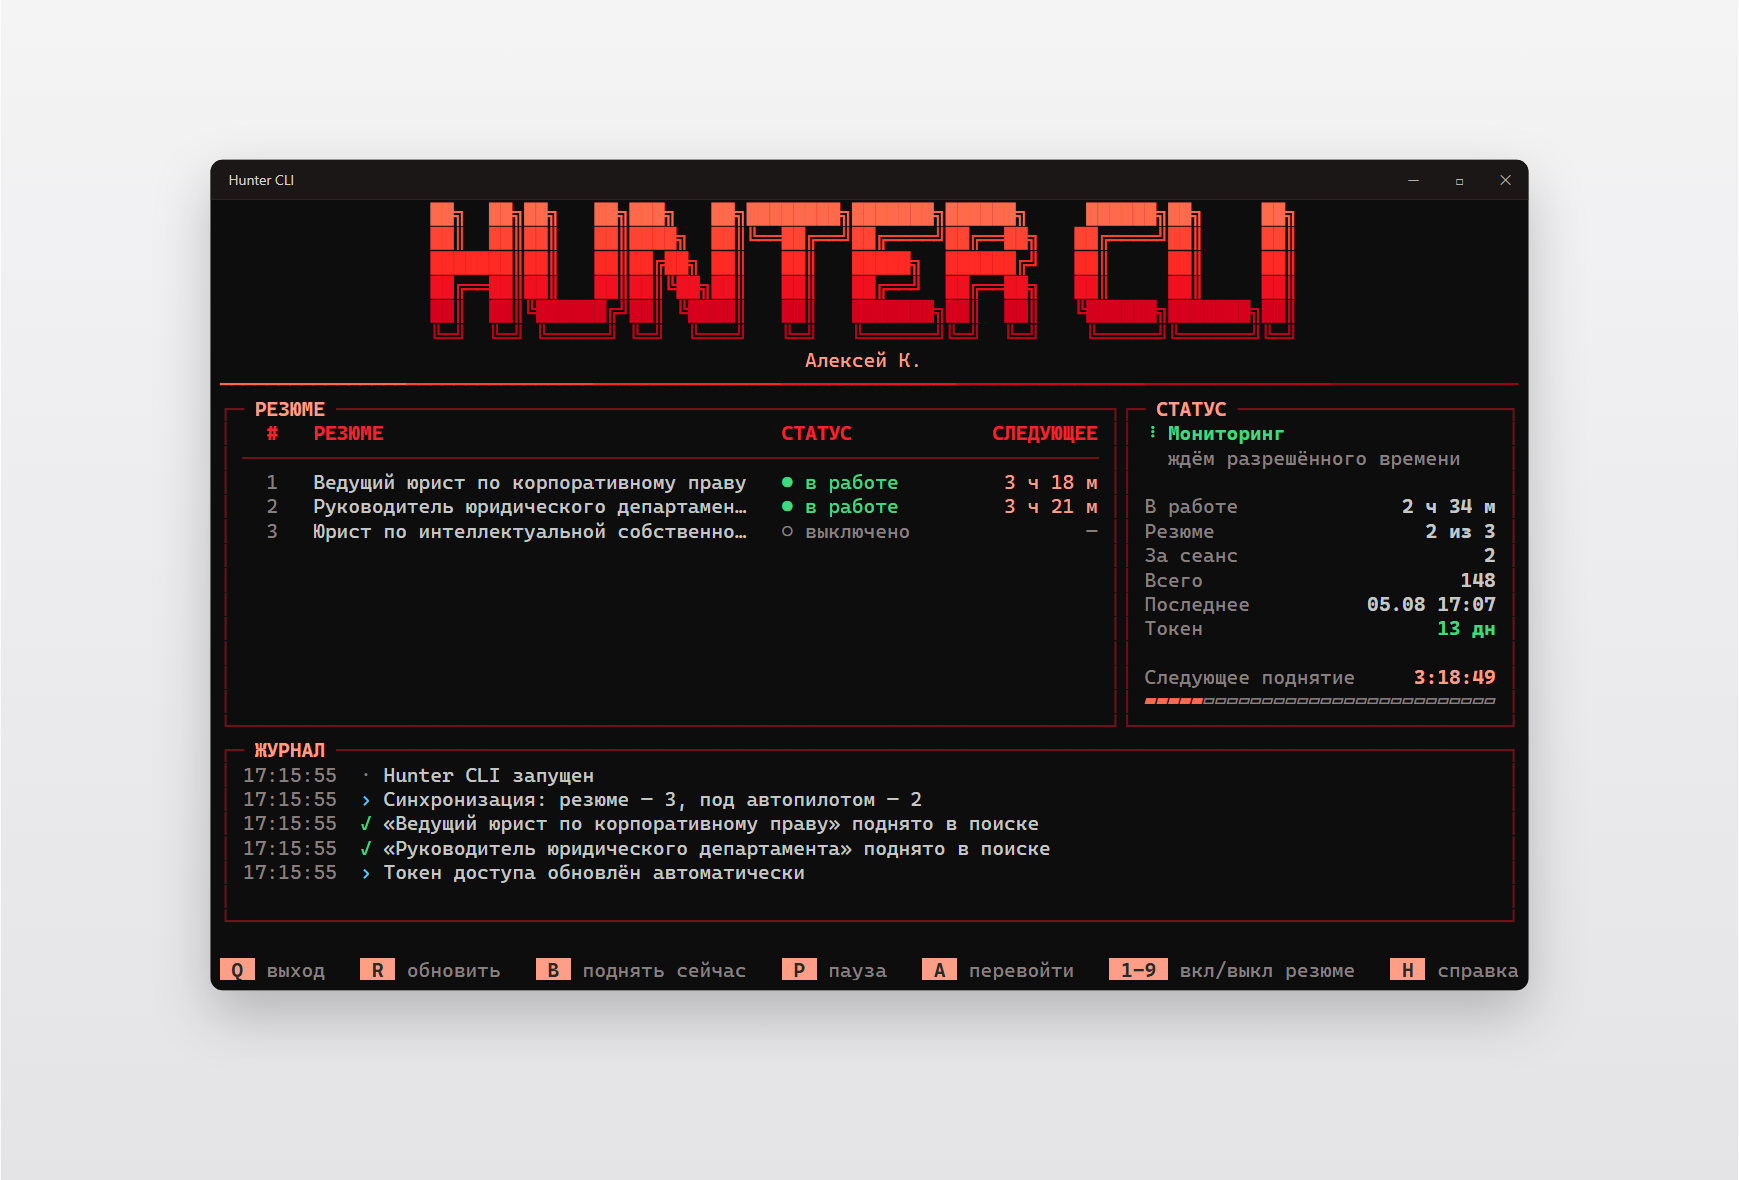
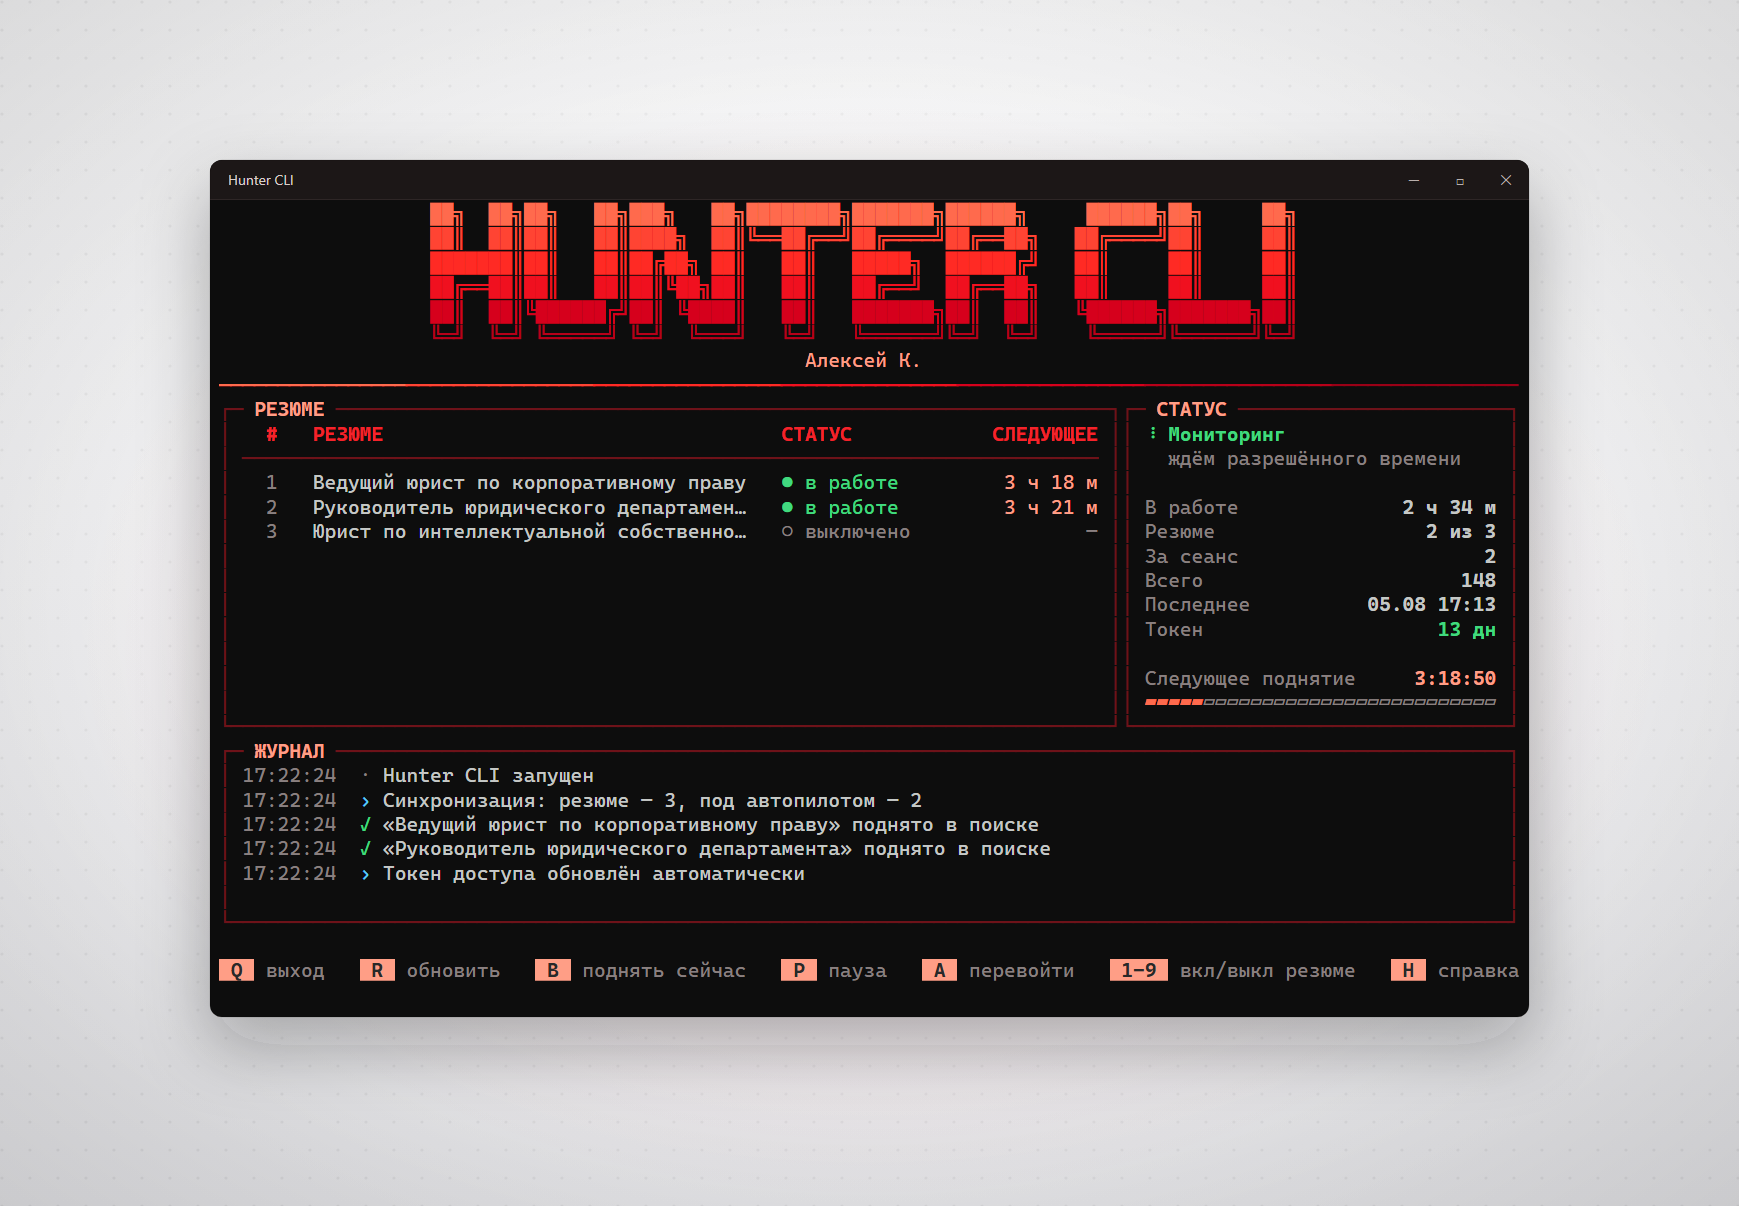
docs: запас снизу у окна и фактура фона на скриншоте
Rich оставляет под содержимым всего 8 px против 40 px сверху под заголовок,
поэтому строка горячих клавиш упиралась в нижний край окна. Добавлен запас.

Фон перестал быть плоской заливкой: точечная сетка, мягкое свечение под
окном, чуть заметный красный отсвет в тон приложению и виньетка по краям.
Всё на низкой прозрачности — фон остаётся серым и не спорит с окном.

Размер холста считается теперь в одном месте: растеризация шла по своей
формуле и обрезала бы добавленные снизу пиксели.

diff --git a/tools/make_preview.py b/tools/make_preview.py
@@ -56,6 +56,10 @@ COLUMNS, ROWS = 112, 32
 MARGIN_X, MARGIN_TOP, MARGIN_BOTTOM = 210, 160, 190
 CORNER = 12
 
+#: Запас снизу. Rich оставляет под содержимым всего 8 px (сверху — 40 px под
+#: заголовок), из-за чего строка горячих клавиш прижималась к краю окна.
+BOTTOM_PAD = 26
+
 OUTPUT_PNG = os.path.join(ROOT, "docs", "preview.png")
 OUTPUT_SVG = os.path.join(ROOT, "docs", "preview.svg")
 
@@ -167,11 +171,19 @@ def render_terminal() -> tuple[str, float, float]:
     return svg, float(box.group(1)), float(box.group(2))
 
 
+def canvas_size(inner_w: float, inner_h: float) -> tuple[int, int]:
+    """Размер картинки. Считается здесь и только здесь: если растеризовать
+    по другой формуле, край изображения окажется обрезанным."""
+    return (
+        int(inner_w + MARGIN_X * 2),
+        int(inner_h + BOTTOM_PAD + MARGIN_TOP + MARGIN_BOTTOM),
+    )
+
+
 def compose(terminal: str, inner_w: float, inner_h: float) -> str:
     """Обернуть терминал в окно и положить на фон."""
-    win_w, win_h = inner_w, inner_h
-    canvas_w = win_w + MARGIN_X * 2
-    canvas_h = win_h + MARGIN_TOP + MARGIN_BOTTOM
+    win_w, win_h = inner_w, inner_h + BOTTOM_PAD
+    canvas_w, canvas_h = canvas_size(inner_w, inner_h)
     win_x, win_y = MARGIN_X, MARGIN_TOP
 
     # Заголовок окна занимает верхнюю полосу: Rich уже оставил под неё отступ
@@ -185,10 +197,12 @@ def compose(terminal: str, inner_w: float, inner_h: float) -> str:
             f'font-family="Segoe UI, Arial" font-size="14" fill="#b9b0ad">{glyph}</text>'
         )
 
+    # Терминал вставляем в его собственном размере: если растянуть его на всю
+    # высоту окна вместе с запасом снизу, текст поедет по вертикали.
     terminal_body = terminal.replace(
         '<svg class="rich-terminal"',
         f'<svg class="rich-terminal" x="{win_x}" y="{win_y}" '
-        f'width="{win_w}" height="{win_h}"',
+        f'width="{inner_w}" height="{inner_h}"',
         1,
     )
 
@@ -196,12 +210,31 @@ def compose(terminal: str, inner_w: float, inner_h: float) -> str:
 height="{canvas_h:.0f}" viewBox="0 0 {canvas_w:.0f} {canvas_h:.0f}">
   <defs>
     <linearGradient id="bg" x1="0%" y1="0%" x2="0%" y2="100%">
-      <stop offset="0%" stop-color="#f4f4f5"/>
-      <stop offset="100%" stop-color="#e4e4e7"/>
+      <stop offset="0%" stop-color="#f5f5f6"/>
+      <stop offset="100%" stop-color="#e2e2e5"/>
     </linearGradient>
-    <filter id="shadow" x="-20%" y="-20%" width="140%" height="150%">
-      <feDropShadow dx="0" dy="24" stdDeviation="28" flood-color="#000000"
-                    flood-opacity="0.22"/>
+    <!-- Мягкое свечение под окном: фон перестаёт быть плоским, но остаётся
+         серым. Красный подмешан почти незаметно — только чтобы отозваться
+         на цвет самого приложения. -->
+    <radialGradient id="halo" cx="50%" cy="46%" r="62%">
+      <stop offset="0%" stop-color="#ffffff" stop-opacity="0.95"/>
+      <stop offset="55%" stop-color="#ffffff" stop-opacity="0.30"/>
+      <stop offset="100%" stop-color="#ffffff" stop-opacity="0"/>
+    </radialGradient>
+    <radialGradient id="ember" cx="50%" cy="54%" r="46%">
+      <stop offset="0%" stop-color="#d6001c" stop-opacity="0.09"/>
+      <stop offset="100%" stop-color="#d6001c" stop-opacity="0"/>
+    </radialGradient>
+    <radialGradient id="vignette" cx="50%" cy="50%" r="72%">
+      <stop offset="52%" stop-color="#000000" stop-opacity="0"/>
+      <stop offset="100%" stop-color="#000000" stop-opacity="0.11"/>
+    </radialGradient>
+    <pattern id="dots" width="28" height="28" patternUnits="userSpaceOnUse">
+      <circle cx="2" cy="2" r="1.6" fill="#3a3a40" opacity="0.07"/>
+    </pattern>
+    <filter id="shadow" x="-25%" y="-25%" width="150%" height="160%">
+      <feDropShadow dx="0" dy="28" stdDeviation="34" flood-color="#1a1214"
+                    flood-opacity="0.30"/>
     </filter>
     <clipPath id="window">
       <rect x="{win_x}" y="{win_y}" width="{win_w:.0f}" height="{win_h:.0f}" rx="{CORNER}"/>
@@ -209,6 +242,10 @@ height="{canvas_h:.0f}" viewBox="0 0 {canvas_w:.0f} {canvas_h:.0f}">
   </defs>
 
   <rect width="100%" height="100%" fill="url(#bg)"/>
+  <rect width="100%" height="100%" fill="url(#dots)"/>
+  <rect width="100%" height="100%" fill="url(#halo)"/>
+  <rect width="100%" height="100%" fill="url(#ember)"/>
+  <rect width="100%" height="100%" fill="url(#vignette)"/>
 
   <rect x="{win_x}" y="{win_y}" width="{win_w:.0f}" height="{win_h:.0f}" rx="{CORNER}"
         fill="#0f0d0d" filter="url(#shadow)"/>
@@ -265,8 +302,7 @@ def main() -> int:
     os.makedirs(os.path.dirname(OUTPUT_SVG), exist_ok=True)
     io.open(OUTPUT_SVG, "w", encoding="utf-8", newline="\n").write(svg)
 
-    width = int(inner_w + MARGIN_X * 2)
-    height = int(inner_h + MARGIN_TOP + MARGIN_BOTTOM)
+    width, height = canvas_size(inner_w, inner_h)
     if not rasterize(width, height):
         return 1
 
